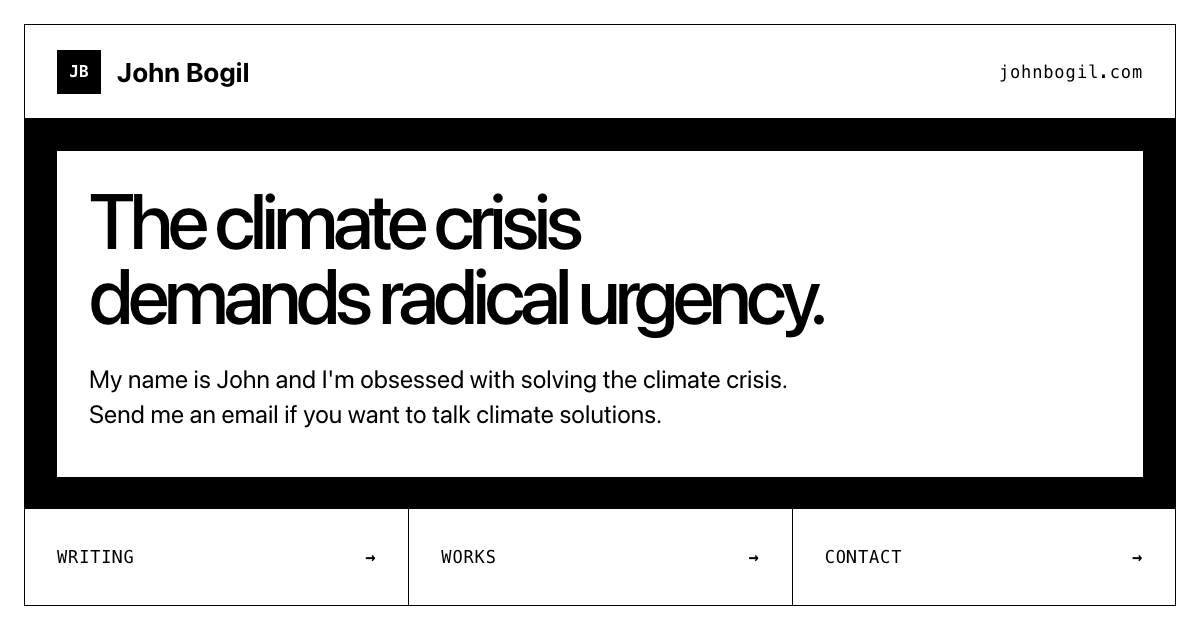
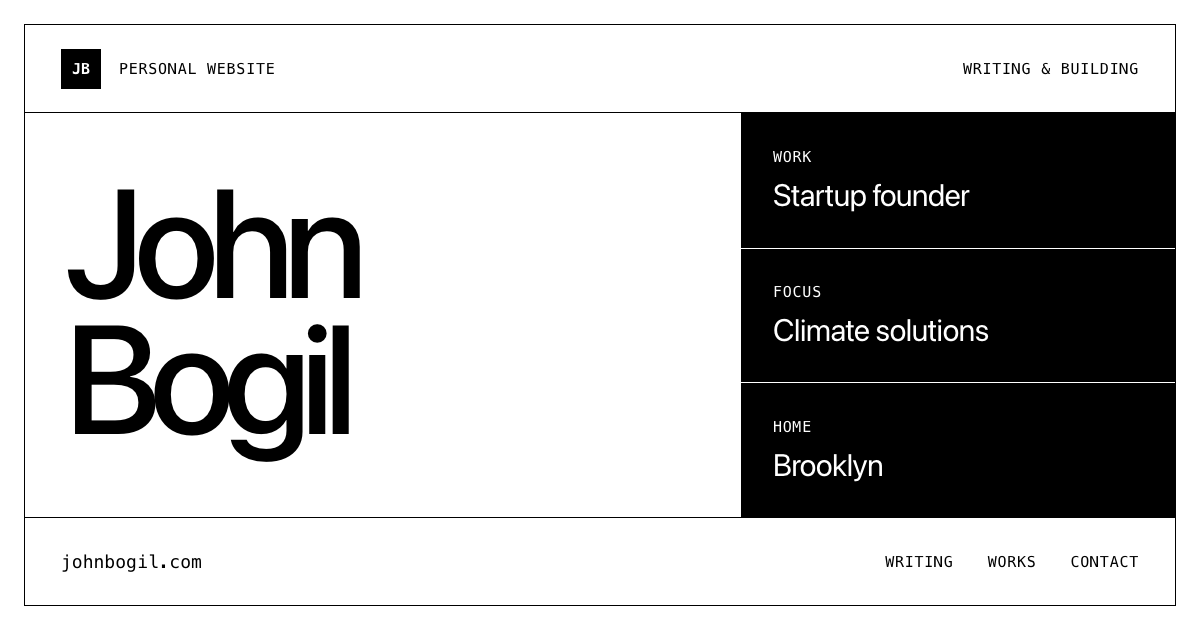
Create a distinct personal social preview

diff --git a/assets/social-preview.html b/assets/social-preview.html
@@ -20,105 +20,119 @@
       }
 
       .preview {
+        display: grid;
+        grid-template-rows: 88px 1fr 88px;
         height: 100%;
         border: 1px solid #000;
       }
 
-      header {
+      header,
+      footer {
         display: flex;
         align-items: center;
         justify-content: space-between;
-        height: 94px;
-        padding: 0 32px;
-        border-bottom: 1px solid #000;
+        padding: 0 36px;
+        font-family: "SFMono-Regular", Consolas, "Liberation Mono", Menlo, monospace;
+        font-size: 18px;
       }
 
-      .brand {
+      header { border-bottom: 1px solid #000; }
+
+      .identity {
         display: flex;
         align-items: center;
-        gap: 16px;
-        font-size: 27px;
-        font-weight: 700;
+        gap: 18px;
       }
 
       .mark {
         display: grid;
-        width: 44px;
-        height: 44px;
+        width: 40px;
+        height: 40px;
         place-items: center;
         background: #000;
         color: #fff;
-        font-family: "SFMono-Regular", Consolas, "Liberation Mono", Menlo, monospace;
-        font-size: 16px;
+        font-size: 15px;
+        font-weight: 700;
       }
 
-      .domain,
-      footer {
+      .label {
         font-family: "SFMono-Regular", Consolas, "Liberation Mono", Menlo, monospace;
-        font-size: 17px;
+        font-size: 15px;
+        font-weight: 400;
         letter-spacing: 0.05em;
-      }
-
-      main {
-        height: 390px;
-        padding: 32px;
-        background: #000;
-      }
-
-      .statement {
-        height: 100%;
-        padding: 32px;
-        background: #fff;
-      }
-
-      h1 {
-        margin: 0 0 28px;
-        font-size: 78px;
-        font-weight: 500;
-        letter-spacing: -0.065em;
-        line-height: 0.96;
-      }
-
-      p {
-        max-width: 780px;
-        margin: 0;
-        font-size: 25px;
-        line-height: 1.4;
-      }
-
-      footer {
-        display: grid;
-        grid-template-columns: repeat(3, 1fr);
-        height: 96px;
         text-transform: uppercase;
       }
 
-      footer span {
-        display: flex;
-        align-items: center;
-        justify-content: space-between;
-        padding: 0 32px;
+      main {
+        display: grid;
+        grid-template-columns: 1.65fr 1fr;
+        min-height: 0;
       }
 
-      footer span + span { border-left: 1px solid #000; }
+      .name {
+        display: flex;
+        align-items: center;
+        padding: 26px 40px 40px;
+      }
+
+      h1 {
+        margin: 0;
+        font-size: 154px;
+        font-weight: 500;
+        letter-spacing: -0.065em;
+        line-height: 0.88;
+      }
+
+      .details {
+        display: grid;
+        grid-template-rows: repeat(3, 1fr);
+        margin: 0;
+        background: #000;
+        color: #fff;
+      }
+
+      .details div {
+        display: flex;
+        flex-direction: column;
+        justify-content: center;
+        gap: 12px;
+        padding: 20px 32px;
+      }
+
+      .details div + div { border-top: 1px solid #fff; }
+
+      dd {
+        margin: 0;
+        font-size: 31px;
+        letter-spacing: -0.025em;
+        line-height: 1.1;
+      }
+
+      footer { border-top: 1px solid #000; }
+
+      .contents {
+        display: flex;
+        gap: 34px;
+      }
     </style>
   </head>
   <body>
     <div class="preview">
       <header>
-        <div class="brand"><span class="mark">JB</span>John Bogil</div>
-        <span class="domain">johnbogil.com</span>
+        <div class="identity"><span class="mark">JB</span><span class="label">Personal website</span></div>
+        <span class="label">Writing &amp; building</span>
       </header>
       <main>
-        <div class="statement">
-          <h1>The climate crisis<br>demands radical urgency.</h1>
-          <p>My name is John and I'm obsessed with solving the climate crisis.<br>Send me an email if you want to talk climate solutions.</p>
-        </div>
+        <div class="name"><h1>John<br>Bogil</h1></div>
+        <dl class="details">
+          <div><dt class="label">Work</dt><dd>Startup founder</dd></div>
+          <div><dt class="label">Focus</dt><dd>Climate solutions</dd></div>
+          <div><dt class="label">Home</dt><dd>Brooklyn</dd></div>
+        </dl>
       </main>
       <footer>
-        <span>Writing <b aria-hidden="true">→</b></span>
-        <span>Works <b aria-hidden="true">→</b></span>
-        <span>Contact <b aria-hidden="true">→</b></span>
+        <span>johnbogil.com</span>
+        <div class="contents label"><span>Writing</span><span>Works</span><span>Contact</span></div>
       </footer>
     </div>
   </body>

diff --git a/index.html b/index.html
@@ -9,16 +9,16 @@
     <meta property="og:title" content="John Bogil">
     <meta property="og:description" content="John Bogil is a startup founder from Brooklyn focused on climate solutions.">
     <meta property="og:url" content="https://johnbogil.com/">
-    <meta property="og:image" content="https://johnbogil.com/assets/social-preview.png">
+    <meta property="og:image" content="https://johnbogil.com/assets/social-preview.png?v=20261012-2">
     <meta property="og:image:type" content="image/png">
     <meta property="og:image:width" content="1200">
     <meta property="og:image:height" content="630">
-    <meta property="og:image:alt" content="John Bogil. The climate crisis demands radical urgency. Writing, works, and climate solutions.">
+    <meta property="og:image:alt" content="John Bogil. Startup founder focused on climate solutions. Brooklyn. johnbogil.com.">
     <meta name="twitter:card" content="summary_large_image">
     <meta name="twitter:title" content="John Bogil">
     <meta name="twitter:description" content="John Bogil is a startup founder from Brooklyn focused on climate solutions.">
-    <meta name="twitter:image" content="https://johnbogil.com/assets/social-preview.png">
-    <meta name="twitter:image:alt" content="John Bogil. The climate crisis demands radical urgency. Writing, works, and climate solutions.">
+    <meta name="twitter:image" content="https://johnbogil.com/assets/social-preview.png?v=20261012-2">
+    <meta name="twitter:image:alt" content="John Bogil. Startup founder focused on climate solutions. Brooklyn. johnbogil.com.">
     <link rel="icon" type="image/svg+xml" href="/assets/favicon.svg?v=1">
     <link rel="apple-touch-icon" href="/assets/apple-touch-icon.png">
     <link rel="stylesheet" href="style.css?v=20260924-2">
